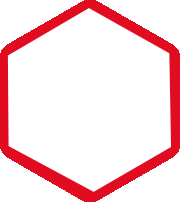
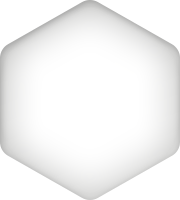
add help state and change assets

Changed region(s): [[0.0, 0.0, 1.0, 1.0]]

diff --git a/states/Help.js b/states/Help.js
@@ -1,0 +1,25 @@
+"use strict";
+
+var help = function(game) {
+};
+
+help.prototype = {
+    preload: function() {
+        gameInfo.set("screenState",GAME_CONST.STATES.HELP);
+        this.load.crossOrigin = 'anonymous';
+    },
+
+    create: function() {
+
+        var instructions = this.add.image(gameInfo.get("game").world.centerX, gameInfo.get("game").world.centerY, 'instructions');
+        instructions.anchor.setTo(0.5);
+
+        var backButton = this.add.image(94, 91, 'back');
+        backButton.anchor.setTo(0.5);
+        backButton.inputEnabled = true;
+        backButton.events.onInputUp.add(function() {
+            kapowClientController.handleBackButton();
+        }, this);
+
+    }
+};

diff --git a/states/Boot.js b/states/Boot.js
@@ -7,8 +7,9 @@ boot.prototype = {
     preload: function() {
         gameInfo.set("screenState",GAME_CONST.STATES.BOOT);
         this.load.crossOrigin = 'anonymous';
-        this.load.image('background', 'assets/images/bg.png');
-        this.load.image('bgColor', 'assets/images/background.png');
+        // change below wala asset
+        this.load.image('menu_background', 'assets/images/background.png');
+        this.load.image('background', 'assets/images/background.png');
         this.load.image("progressBackground", "assets/images/bar.png");
         this.load.image("progressBar", "assets/images/loading-bar.png");
     },

diff --git a/states/GameOver.js b/states/GameOver.js
@@ -19,7 +19,7 @@ gameOver.prototype = {
     },
 
     setupUIElementsAndHandlers: function() {
-         var background = this.add.image(gameInfo.get("game").world.centerX, gameInfo.get("game").world.centerY, 'bgColor');
+        var background = this.add.image(gameInfo.get("game").world.centerX, gameInfo.get("game").world.centerY, 'background');
         background.anchor.setTo(0.5);
         this.resultLabel = this.game.add.text(gameInfo.get("game").world.centerX, 394, '', {
             fontSize: '140px',

diff --git a/states/Play.js b/states/Play.js
@@ -53,9 +53,8 @@ play.prototype = {
     },
 
     create: function() {
-
         gameInfo.get("game").physics.startSystem(Phaser.Physics.ARCADE);
-        var background = this.add.image(gameInfo.get("game").world.centerX, gameInfo.get("game").world.centerY, 'bgColor');
+        var background = this.add.image(gameInfo.get("game").world.centerX, gameInfo.get("game").world.centerY, 'background');
         background.anchor.setTo(0.5);
 
         var backButton = this.add.image(94, 91, 'back');

diff --git a/states/Menu.js b/states/Menu.js
@@ -49,6 +49,13 @@ menu.prototype = {
             kapowClientController.handleBackButton();
         }, this);
 
+        var helpButton = this.add.image(996, 91, 'help');
+        helpButton.anchor.setTo(0.5);
+        helpButton.inputEnabled = true;
+        helpButton.events.onInputUp.add(function() {
+            GameManager.startState(GAME_CONST.STATES.HELP)
+        }, this);
+
     },
 
     startGameWithDifficultyLevel: function(difficultyLevel) {

diff --git a/KapowClientController.js b/KapowClientController.js
@@ -40,6 +40,12 @@ KapowClientController.prototype.handleBackButton = function() {
             GameManager.resetGameState();
             break;
         }
+
+        case GAME_CONST.STATES.HELP: {
+            console.log("Resetting game state");
+            GameManager.resetGameState();
+            break;
+        }
         default : {
             console.log("Calling kapow.close")
             kapow.close();

diff --git a/states/Loading.js b/states/Loading.js
@@ -15,6 +15,8 @@ loading.prototype = {
         this.load.image('hard', 'assets/images/hard.png');
         this.load.image('leaderboard', 'assets/images/leaderboard.png');
         this.load.image('back', 'assets/images/back.png');
+        this.load.image('help', 'assets/images/help.png');
+        this.load.image('instructions', 'assets/images/instructions.png')
     },
 
     create: function() {

diff --git a/index.html b/index.html
@@ -12,6 +12,7 @@
     <script src="RandomGenerator.js"></script>
     <script src="states/Boot.js"></script>
     <script src="states/Loading.js"></script>
+    <script src="states/Help.js"></script>
     <script src="states/Play.js"></script>
     <script src="states/GameOver.js"></script>
     <script src="states/Menu.js"></script>

diff --git a/Main.js b/Main.js
@@ -5,6 +5,7 @@
 
     game.state.add("Boot", boot);
     game.state.add("Loading", loading);
+    game.state.add("Help", help);
     game.state.add("Menu", menu);
     game.state.add("Play", play);
     game.state.add("GameOver", gameOver);

diff --git a/GAME_CONST.js b/GAME_CONST.js
@@ -9,7 +9,8 @@ const GAME_CONST = {
         LOADING: "Loading",
         MENU: "Menu",
         PLAY: "Play",
-        GAMEOVER: "GameOver"
+        GAMEOVER: "GameOver",
+        HELP: "Help"
     },
     MUSIC: {
         VOLUME: {
